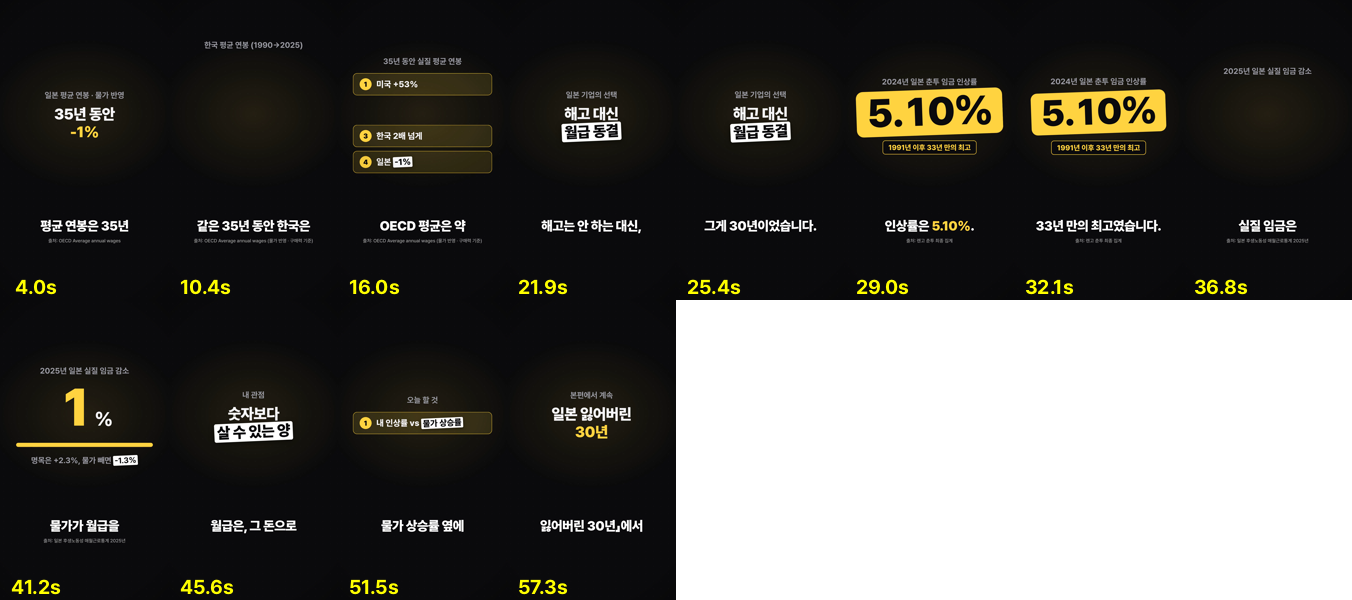
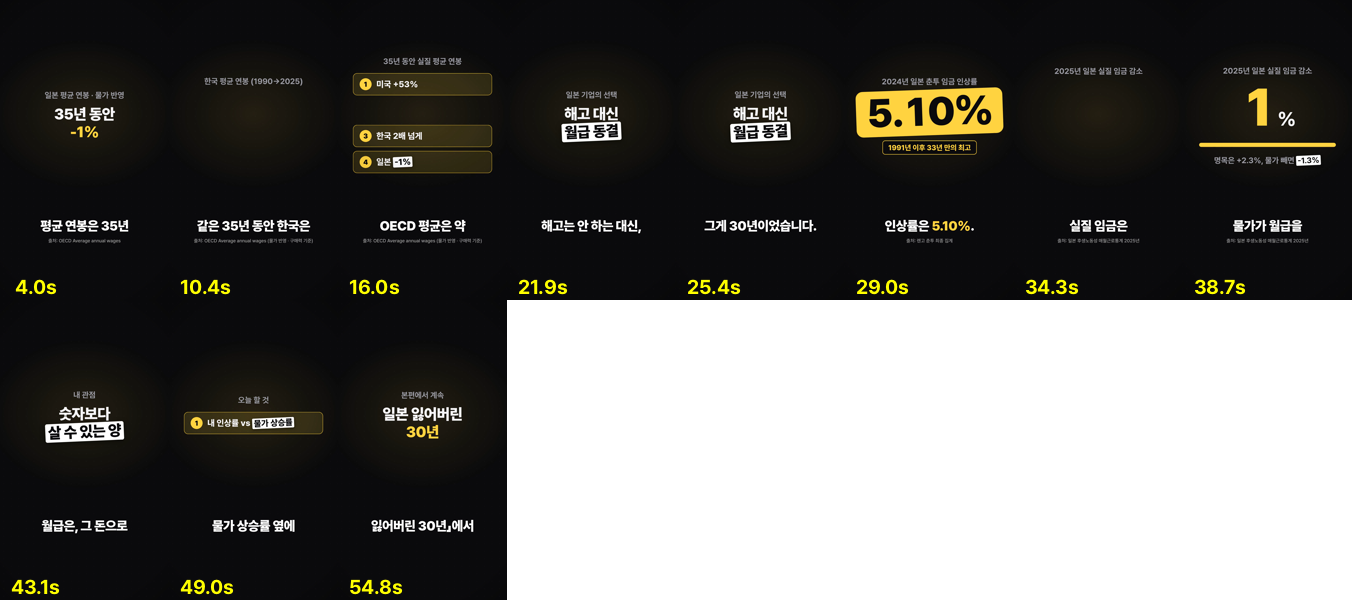
쇼츠 소수점 숫자 표시 수정(0.83이 1로 보이던 문제), 스위스 쇼츠2 비유 문구를 대사와 맞춤, 일본 쇼츠 2개 완성
Claude-Session: https://claude.ai/code/session_01FimgvnFwUXoVfoVUHJw6eG

diff --git a/neural-studio/shorts/scene.html b/neural-studio/shorts/scene.html
@@ -72,7 +72,7 @@ window.render=function(t,dur){
   document.getElementById('stage').style.transform=`scale(${slow})`;
   if(d.kind==='hook'){enter(e[0],t,ts[0]??0);enter(e[1],t,ts[1]??.25);enter(e[2],t,ts[2]??.9,.5)}
   if(d.kind==='number'){enter(e[0],t,ts[0]??0);const at=ts[1]??.5,roll=d.roll||1.2,p=out3(P(t,at,at+roll));
-    enter(e[1],t,at,.5);const v=(d.from||0)+((d.to||0)-(d.from||0))*p;document.getElementById('nv').textContent=Math.round(v).toLocaleString('en-US');
+    enter(e[1],t,at,.5);const v=(d.from||0)+((d.to||0)-(d.from||0))*p;const dec=d.dec??Math.max(((String(d.to??0).split('.')[1])||'').length,((String(d.from??0).split('.')[1])||'').length);document.getElementById('nv').textContent=v.toLocaleString('en-US',{minimumFractionDigits:dec,maximumFractionDigits:dec});
     e[2].style.opacity=P(t,at,at+.4);document.getElementById('bf').style.width=(100*clamp((d.to||0)/(d.max||d.to||1))*p)+'%';enter(e[3],t,(ts[2]??at+roll));}
   if(d.kind==='list'){enter(e[0],t,ts[0]??0);(d.items||[]).forEach((_,i)=>{const at=ts[i+1]??(.6+i*.8);enter(e[i+1],t,at,.5);
       const cur=t>=at&&t<(ts[i+2]??1e9);e[i+1].style.borderColor=cur?'var(--y)':'rgba(255,255,255,.1)';e[i+1].style.background=cur?'rgba(255,210,63,.14)':'rgba(255,255,255,.06)';

diff --git a/neural-studio/output/oneshot_japan_short1/qc_report.md b/neural-studio/output/oneshot_japan_short1/qc_report.md
@@ -1,11 +1,11 @@
 # 품질검수 보고서
 
-- 파일: `final.mp4`  길이 60.13초
-- 음량: -15.1 LUFS (목표 -14), 피크 -4.36238 dB
+- 파일: `final.mp4`  길이 57.63초
+- 음량: -15.2 LUFS (목표 -14), 피크 -4.36238 dB
 
 | 항목 | 결과 |
 |---|---|
-| 음성↔대본 일치(완성본 재인식) | ✅ 불일치 0/12 구간 (CER>0.3) |
+| 음성↔대본 일치(완성본 재인식) | ✅ 불일치 0/11 구간 (CER>0.3) |
 | TTS 자동 재생성 | 2구간 재생성 후 최적본 채택 |
 | 소리 끊김 | ✅ 0건 |
 | 화면 멈춤(2.0초 이상) | ⚠ 1건 |
@@ -22,18 +22,17 @@
 | 19.75 | 해고는 안 하는 대신, 월급은 못 올려 준다. | 해고는 안 하는 대신, 월급은 못 올려 준다. | 해군은안하는대신월급은못올려준다. | 0.125 |
 | 24.17 | 그게 30년이었습니다. | 그게 삼십 년이었습니다. | 그게 30년이었습니다. | 0.0 |
 | 27.28 | 2024년 봄 임금 인상률은 5.10%. | 이천이십사 년 봄 임금 인상률은 오 점 일 퍼센트. | 2024년봄, 인상률은 5.1퍼센트 | 0.105 |
-| 30.98 | 33년 만의 최고였습니다. | 삼십삼 년 만의 최고였습니다. | 33년만에최고였습니다. | 0.083 |
-| 33.85 | 그런데 2025년 실질 임금은 1.3% 줄었습니다. | 그런데 이천이십오 년 실질 임금은 일 점 삼 퍼센트 줄었습니다. | 그런데 2015년실질임금은 1.3퍼센트주랜입니다. | 0.16 |
-| 39.87 | 물가가 월급을 앞질렀거든요. | 물가가 월급을 앞질렀거든요. | 물가가월급을앞찔렀거든요. | 0.083 |
-| 43.05 | 제 생각에 진짜 월급은, 그 돈으로 살 수 있는 양입니다. | 제 생각에 진짜 월급은, 그 돈으로 살 수 있는 양입니다. | 제생각에진짜월급은그돈으로살수있는양입니다. | 0.0 |
-| 48.72 | 올해 내 연봉 인상률을 물가 상승률 옆에 한 번 적어 보세요. | 올해 내 연봉 인상률을 물가 상승률 옆에 한 번 적어 보세요. | 모래내연봉인상률을뭘까상승률옆에한번적어보세요. | 0.174 |
-| 54.85 | 전체 이야기는 본편 「일본 잃어버린 30년」에서 보실 수 있어요. | 전체 이야기는 본편 일본 잃어버린 삼십 년에서 보실 수 있어요. | 전체이야기는본편일본잃어버린 30년에서보실수있어요. | 0.0 |
+| 31.35 | 그런데 2025년 실질 임금은 1.3% 줄었습니다. | 그런데 이천이십오 년 실질 임금은 일 점 삼 퍼센트 줄었습니다. | 그런데 2015년실질임금은 1.3퍼센트주랜입니다. | 0.16 |
+| 37.37 | 물가가 월급을 앞질렀거든요. | 물가가 월급을 앞질렀거든요. | 물가가월급을앞질렀거든요. | 0.0 |
+| 40.55 | 제 생각에 진짜 월급은, 그 돈으로 살 수 있는 양입니다. | 제 생각에 진짜 월급은, 그 돈으로 살 수 있는 양입니다. | 제생각에진짜월급은그돈으로살수있는양입니다. | 0.0 |
+| 46.22 | 올해 내 연봉 인상률을 물가 상승률 옆에 한 번 적어 보세요. | 올해 내 연봉 인상률을 물가 상승률 옆에 한 번 적어 보세요. | 모래내연봉인상유를올까상승률옆에한번적어보세요. | 0.261 |
+| 52.35 | 전체 이야기는 본편 「일본 잃어버린 30년」에서 보실 수 있어요. | 전체 이야기는 본편 일본 잃어버린 삼십 년에서 보실 수 있어요. | 전체이야기는본편일본잃어버린 30년에서보실수있어요. | 0.0 |
 
 ## 화면 멈춤
 - (2.0, 4.43333)
 
 ## 쇼츠 공장 원칙 점검 (01~06)
-- ⚠ [02] 길이 60.1초 (기준 40~50초, short)
+- ⚠ [02] 길이 57.6초 (기준 40~50초, short)
 - ⚠ 내레이션 속도 4.5음절/초 (권장 6.8~8.6)
 
 - 내레이션 속도 4.5음절/초, 효과음 15개

diff --git a/neural-studio/output/oneshot_japan_short2/qc_report.md b/neural-studio/output/oneshot_japan_short2/qc_report.md
@@ -8,7 +8,7 @@
 | 음성↔대본 일치(완성본 재인식) | ⚠ 불일치 1/10 구간 (CER>0.3) |
 | TTS 자동 재생성 | 0구간 재생성 후 최적본 채택 |
 | 소리 끊김 | ✅ 0건 |
-| 화면 멈춤(2.0초 이상) | ⚠ 1건 |
+| 화면 멈춤(2.0초 이상) | ⚠ 2건 |
 | 검은 화면 | ✅ 0건 |
 | 개인정보 노출(OCR) | ✅ 0건  |
 | 자막 맞춤법/형식 | ✅ 0건 |
@@ -29,6 +29,7 @@
 
 ## 화면 멈춤
 - (5.56667, 7.56667)
+- (9.53333, 11.6)
 
 ## 쇼츠 공장 원칙 점검 (01~06)
 - ⚠ [02] 길이 51.2초 (기준 40~50초, short)

diff --git a/neural-studio/release/oneshot_japan_short2/버전기록.md b/neural-studio/release/oneshot_japan_short2/버전기록.md
@@ -3,3 +3,4 @@
 | 버전 | 날짜 | 길이 | 검수 | 바뀐 점 |
 |---|---|---|---|---|
 | v1 | 2026-11-14 | 0:51 | 음성불일치 1 · 끊김 0 · 멈춤 1 · 검은화면 0 · 개인정보 0 · 자막 0 | 시리즈 쇼츠 첫 빌드 |
+| v2 | 2026-11-14 | 0:51 | 음성불일치 1 · 끊김 0 · 멈춤 2 · 검은화면 0 · 개인정보 0 · 자막 0 | 큰 숫자 잘림 수정 |

diff --git a/neural-studio/release/oneshot_japan_short1/버전기록.md b/neural-studio/release/oneshot_japan_short1/버전기록.md
@@ -3,3 +3,4 @@
 | 버전 | 날짜 | 길이 | 검수 | 바뀐 점 |
 |---|---|---|---|---|
 | v1 | 2026-11-14 | 1:00 | 음성불일치 0 · 끊김 0 · 멈춤 1 · 검은화면 0 · 개인정보 0 · 자막 0 | 시리즈 쇼츠 첫 빌드 |
+| v2 | 2026-11-14 | 0:57 | 음성불일치 0 · 끊김 0 · 멈춤 1 · 검은화면 0 · 개인정보 0 · 자막 0 | 60초 안으로 줄임 |
